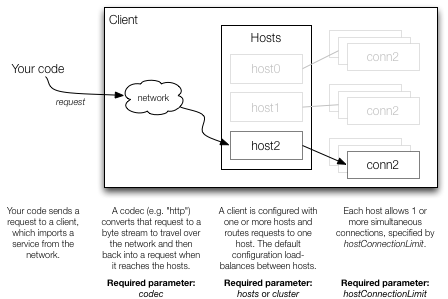
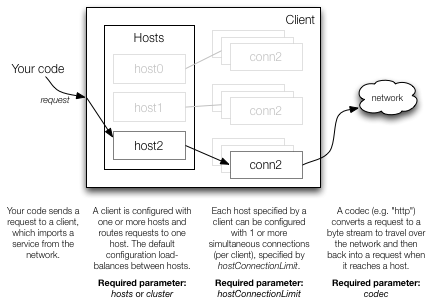
addressing Sonja's I-don't-like-this-drawing comments

diff --git a/README.md b/README.md
@@ -1221,7 +1221,7 @@ These concepts are so important that they are required when specifying any clien
 * The `codec` implements the network protocol used by the client, and consequently determines the types of request and reply.
 * `hostConnectionLimit` specifies the maximum number of connections per host.
 
-If you don't specify those, and you're using Scala, you'll see an error message that indicates something along the lines of `THE_BUILDER_IS_NOT_FULLY_SPECIFIED_SEE_XXXBuilder_DOCUMENTATION`. 
+If you don't specify those, and you're using Scala, you'll see an error message that indicates the `Builder is not fully configured` with details on the requested (incomplete) configuration.
 
 ### ServerBuilder Required Parameters
 
